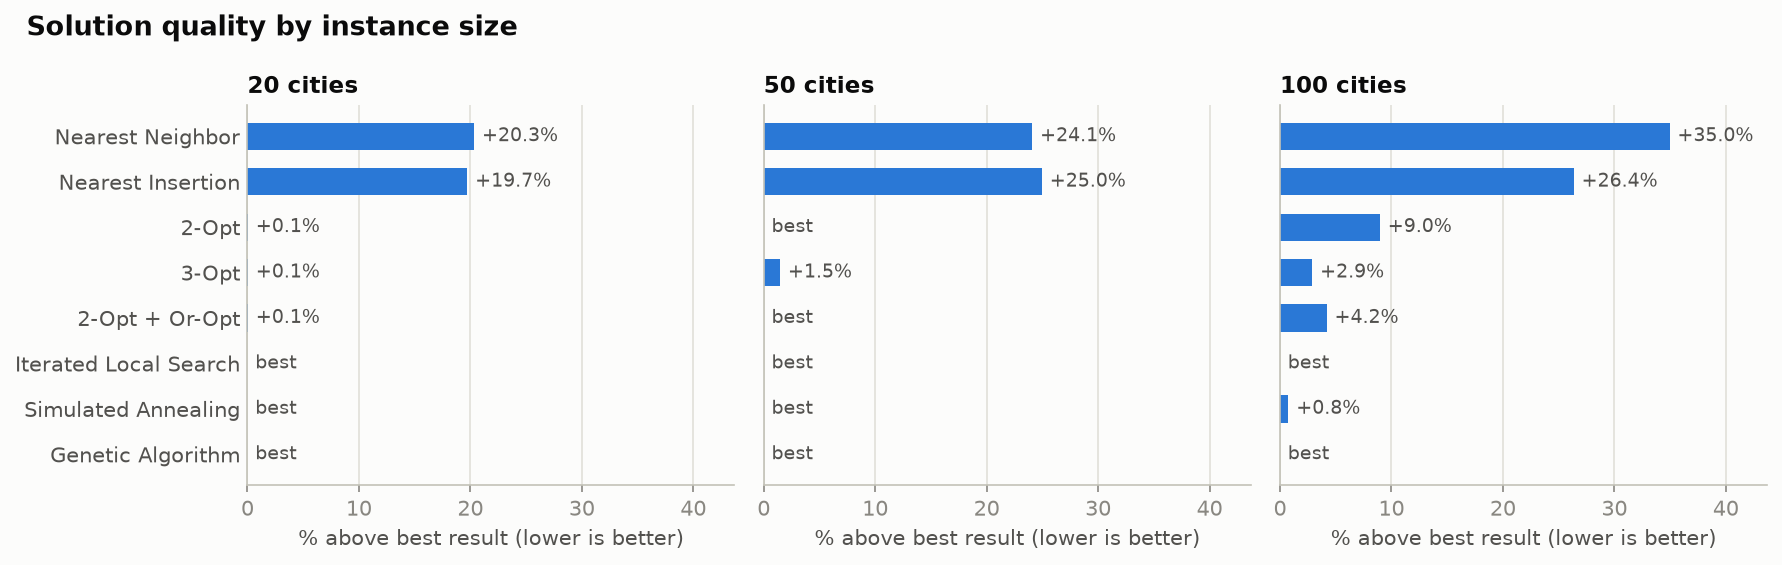
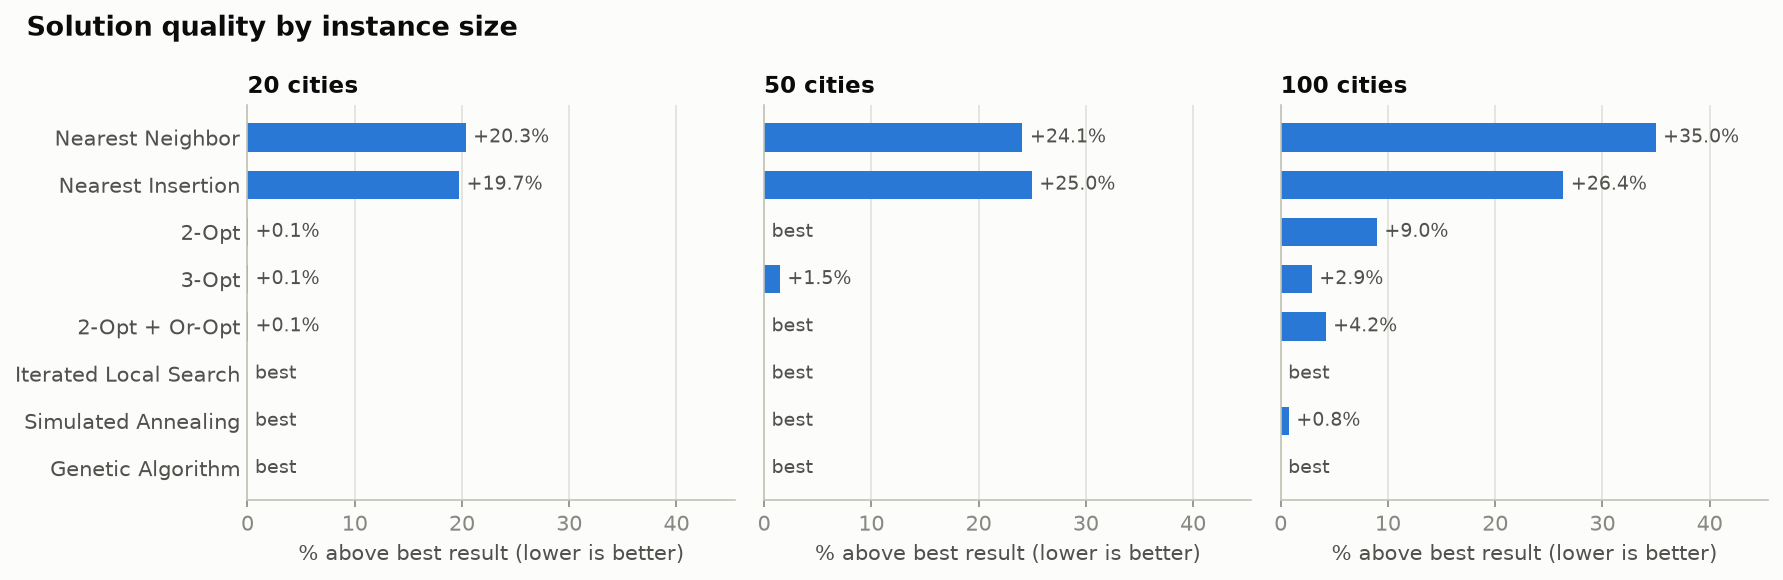
Refresh README and figures; tidy figure script; ignore build dirs
- generate_figures.py: one bar-panel helper for both gap charts; TSPLIB
  paths built from ROOT.
- README tables and outputs regenerated. ILS at 1000 cities 2324.8 (was
  2343.4); ILS on st70 680 (was 675). CLI seeding documented.
- .gitignore: build/ and dist/ (left by pip install).

Claude-Session: https://claude.ai/code/session_018Xnqv3XYegi9WqxB3WF2Wo

diff --git a/scripts/generate_figures.py b/scripts/generate_figures.py
@@ -42,9 +42,7 @@ LABELS = {
     "simulated_annealing": "Simulated Annealing",
     "genetic_algorithm": "Genetic Algorithm",
 }
-TSPLIB_FILES = sorted(glob.glob(os.path.join(
-    os.path.dirname(os.path.dirname(os.path.abspath(__file__))),
-    "data", "tsplib", "*.tsp")))
+TSPLIB_FILES = sorted(glob.glob(os.path.join(ROOT, "data", "tsplib", "*.tsp")))
 SCALING_SIZES = (200, 500, 1000)
 SCALING_ALGORITHMS = ["2-opt", "2-opt+or-opt", "iterated_local_search"]
 
@@ -148,31 +146,43 @@ def plot_tour_comparison(results, n=50):
     save(fig, f"tour_comparison_{n}.png")
 
 
-def plot_gap_by_size(results):
-    """Small multiples: % above the best result, one panel per instance size."""
-    fig, axes = plt.subplots(1, len(SIZES), figsize=(12, 3.8), sharey=True)
+def gap_panels(panels, title, xlabel, zero_label, filename, panel_width):
+    """
+    Small multiples of horizontal bars, one panel per (panel title, gaps)
+    pair; gaps are % values per algorithm in ALGORITHMS order.
+    """
+    fig, axes = plt.subplots(1, len(panels), figsize=(panel_width * len(panels), 3.9),
+                             sharey=True)
     order = list(reversed(ALGORITHMS))
-    max_gap = max(results[n]["algos"][a]["gap"] for n in SIZES for a in ALGORITHMS)
-    for ax, n in zip(axes, SIZES):
-        gaps = [results[n]["algos"][a]["gap"] for a in order]
-        ax.barh(range(len(order)), gaps, height=0.6, color=SERIES)
-        for y, g in enumerate(gaps):
-            text = "best" if g < 0.005 else f"+{g:.1f}%"
+    max_gap = max(max(gaps.values()) for _, gaps in panels)
+    for ax, (panel_title, gaps) in zip(axes, panels):
+        values = [gaps[a] for a in order]
+        ax.barh(range(len(order)), values, height=0.6, color=SERIES)
+        for y, g in enumerate(values):
+            text = zero_label if g < 0.005 else f"+{g:.1f}%"
             ax.text(g + max_gap * 0.02, y, text, va="center",
                     color=INK_SECONDARY, fontsize=9)
         ax.set_yticks(range(len(order)))
         ax.set_yticklabels([LABELS[a] for a in order], color=INK_SECONDARY)
-        ax.set_xlim(0, max_gap * 1.25)
-        ax.set_title(f"{n} cities", loc="left", fontsize=11, fontweight="bold")
+        ax.set_xlim(0, max_gap * 1.3)
+        ax.set_title(panel_title, loc="left", fontsize=11, fontweight="bold")
         ax.xaxis.grid(True, color=GRID, linewidth=0.8)
         ax.set_axisbelow(True)
         ax.tick_params(axis="y", length=0)
         ax.spines["left"].set_color(BASELINE)
-        ax.set_xlabel("% above best result (lower is better)")
-    fig.suptitle("Solution quality by instance size", x=0.02, ha="left",
-                 fontsize=13, fontweight="bold")
+        ax.set_xlabel(xlabel)
+    fig.suptitle(title, x=0.02, ha="left", fontsize=13, fontweight="bold")
     fig.tight_layout()
-    save(fig, "quality_by_size.png")
+    save(fig, filename)
+
+
+def plot_gap_by_size(results):
+    """% above the best result, one panel per instance size."""
+    panels = [(f"{n} cities", {a: results[n]["algos"][a]["gap"] for a in ALGORITHMS})
+              for n in SIZES]
+    gap_panels(panels, "Solution quality by instance size",
+               "% above best result (lower is better)", "best",
+               "quality_by_size.png", panel_width=4)
 
 
 def plot_quality_vs_time(results, n=100):
@@ -277,33 +287,14 @@ def run_tsplib():
 
 
 def plot_tsplib_gap(df):
-    """Small multiples: % above the known optimum, one panel per instance."""
-    instances = list(dict.fromkeys(df["Instance"]))
-    fig, axes = plt.subplots(1, len(instances), figsize=(15, 4), sharey=True)
-    order = list(reversed(ALGORITHMS))
-    max_gap = df["Gap (%)"].max()
-    for ax, name in zip(axes, instances):
+    """% above the known optimum, one panel per TSPLIB instance."""
+    panels = []
+    for name in dict.fromkeys(df["Instance"]):
         sub = df[df["Instance"] == name].set_index("Algorithm")
-        gaps = [sub.loc[a, "Gap (%)"] for a in order]
-        ax.barh(range(len(order)), gaps, height=0.6, color=SERIES)
-        for y, g in enumerate(gaps):
-            text = "optimal" if g < 0.005 else f"+{g:.1f}%"
-            ax.text(g + max_gap * 0.02, y, text, va="center",
-                    color=INK_SECONDARY, fontsize=9)
-        ax.set_yticks(range(len(order)))
-        ax.set_yticklabels([LABELS[a] for a in order], color=INK_SECONDARY)
-        ax.set_xlim(0, max_gap * 1.3)
-        ax.set_title(f"{name} (optimum {int(sub['Optimum'].iloc[0])})",
-                     loc="left", fontsize=11, fontweight="bold")
-        ax.xaxis.grid(True, color=GRID, linewidth=0.8)
-        ax.set_axisbelow(True)
-        ax.tick_params(axis="y", length=0)
-        ax.spines["left"].set_color(BASELINE)
-        ax.set_xlabel("% above optimum")
-    fig.suptitle("TSPLIB instances: gap to the published optimal tour",
-                 x=0.02, ha="left", fontsize=13, fontweight="bold")
-    fig.tight_layout()
-    save(fig, "tsplib_gap.png")
+        panels.append((f"{name} (optimum {int(sub['Optimum'].iloc[0])})",
+                       {a: sub.loc[a, "Gap (%)"] for a in ALGORITHMS}))
+    gap_panels(panels, "TSPLIB instances: gap to the published optimal tour",
+               "% above optimum", "optimal", "tsplib_gap.png", panel_width=3.75)
 
 
 def print_tsplib_table(df):

diff --git a/README.md b/README.md
@@ -25,8 +25,8 @@ A Python implementation of exact, constructive, local-search and metaheuristic a
 
 How the local search stays fast:
 - Every move is evaluated in O(1) from the distance matrix, without recomputing the tour.
-- 2-Opt scans each city's partners in order of distance and stops as soon as no improving move is possible. With the default (all cities as partners) the result is still a true 2-opt local optimum.
-- "Don't-look bits" skip cities whose surroundings have not changed.
+- 2-Opt scans each city's partners in order of distance and stops as soon as no improving move is possible. Only the few nearest partners are sorted up front; the rest of a list is sorted if a scan ever reaches it.
+- "Don't-look bits" skip cities whose surroundings have not changed; a final sweep over all cities confirms that no improving move is left, so the default 2-Opt result is a true 2-opt local optimum.
 
 ## Performance Results
 
@@ -36,14 +36,14 @@ Random uniform instances in a 100×100 square, `generate_random_cities(n)` with 
 
 | Algorithm | 20 cities | 50 cities | 100 cities | Time at 100 cities (s) |
 |-----------|-----------|-----------|------------|------------------------|
-| Nearest Neighbor | 465.04 (+20.3%) | 694.76 (+24.1%) | 1006.40 (+35.0%) | 0.0003 |
+| Nearest Neighbor | 465.04 (+20.3%) | 694.76 (+24.1%) | 1006.40 (+35.0%) | 0.0004 |
 | Nearest Insertion | 462.66 (+19.7%) | 699.63 (+25.0%) | 942.29 (+26.4%) | 0.0012 |
-| 2-Opt | 386.63 (+0.1%) | **559.86** | 812.63 (+9.0%) | 0.0021 |
-| 3-Opt | 386.63 (+0.1%) | 568.11 (+1.5%) | 767.35 (+2.9%) | 0.15 |
-| 2-Opt + Or-Opt | 386.63 (+0.1%) | **559.86** | 777.00 (+4.2%) | 0.013 |
-| Iterated Local Search | **386.43** | **559.86** | **745.73** | 0.11 |
+| 2-Opt | 386.63 (+0.1%) | **559.86** | 812.63 (+9.0%) | 0.0019 |
+| 3-Opt | 386.63 (+0.1%) | 568.11 (+1.5%) | 767.35 (+2.9%) | 0.16 |
+| 2-Opt + Or-Opt | 386.63 (+0.1%) | **559.86** | 777.00 (+4.2%) | 0.012 |
+| Iterated Local Search | **386.43** | **559.86** | **745.73** | 0.14 |
 | Simulated Annealing | **386.43** | **559.86** | 751.40 (+0.8%) | 0.13 |
-| Genetic Algorithm | **386.43** | **559.86** | **745.73** | 0.34 |
+| Genetic Algorithm | **386.43** | **559.86** | **745.73** | 0.35 |
 
 ![Solution quality by instance size](images/quality_by_size.png)
 
@@ -60,7 +60,7 @@ Four classic instances from [TSPLIB](http://comopt.ifi.uni-heidelberg.de/softwar
 | 2-Opt | 446 (+4.7%) | 8108 (+7.5%) | 716 (+6.1%) | 22294 (+4.8%) |
 | 3-Opt | 442 (+3.8%) | 7991 (+6.0%) | 710 (+5.2%) | 21942 (+3.1%) |
 | 2-Opt + Or-Opt | 428 (+0.5%) | 7986 (+5.9%) | 712 (+5.5%) | 22013 (+3.4%) |
-| Iterated Local Search | 427 (+0.2%) | **7542** | **675** | **21282** |
+| Iterated Local Search | 427 (+0.2%) | **7542** | 680 (+0.7%) | **21282** |
 | Simulated Annealing | 427 (+0.2%) | **7542** | 683 (+1.2%) | **21282** |
 | Genetic Algorithm | 427 (+0.2%) | **7542** | 681 (+0.9%) | **21282** |
 
@@ -72,9 +72,9 @@ Tour length and runtime on random instances (same generator):
 
 | Algorithm | 200 cities | 500 cities | 1000 cities |
 |-----------|-----------|-----------|-----------|
-| 2-Opt | 1094.3 (0.01 s) | 1743.3 (0.06 s) | 2434.2 (0.44 s) |
-| 2-Opt + Or-Opt | 1078.2 (0.03 s) | 1709.7 (0.13 s) | 2361.5 (0.35 s) |
-| Iterated Local Search | 1056.8 (0.22 s) | 1655.8 (0.84 s) | 2343.4 (1.83 s) |
+| 2-Opt | 1094.3 (0.01 s) | 1743.3 (0.02 s) | 2433.2 (0.12 s) |
+| 2-Opt + Or-Opt | 1078.2 (0.02 s) | 1709.7 (0.07 s) | 2358.3 (0.23 s) |
+| Iterated Local Search | 1056.8 (0.23 s) | 1655.8 (0.93 s) | 2324.8 (1.84 s) |
 
 ## Installation
 
@@ -118,14 +118,14 @@ tsp-solver solve --random 200 --seed 1 --plot tour.png --tour-out tour.txt
 tsp-solver demo                                            # the 20-city example below
 ```
 
-Repeat `-a` to compare algorithms. The default algorithm is `iterated_local_search`. Choices: `brute_force`, `held_karp`, `nearest_neighbor`, `nearest_insertion`, `2-opt`, `3-opt`, `2-opt+or-opt`, `iterated_local_search`, `simulated_annealing`, `genetic_algorithm`. CSV files may have a header row; the optional third column names the cities.
+Repeat `-a` to compare algorithms. The default algorithm is `iterated_local_search`. Choices: `brute_force`, `held_karp`, `nearest_neighbor`, `nearest_insertion`, `2-opt`, `3-opt`, `2-opt+or-opt`, `iterated_local_search`, `simulated_annealing`, `genetic_algorithm`. CSV files may have a header row; the optional third column names the cities. `--seed` makes the randomized algorithms reproducible; `--random N` without `--seed` uses seed 42 for both the cities and the algorithms.
 
 ```
 $ tsp-solver solve data/tsplib/berlin52.tsp -a 2-opt -a genetic_algorithm --seed 42
 Instance: berlin52 (52 cities, EUC_2D), optimum 7542
 Algorithm                     Distance       Gap    Time (s)
-2-opt                          8108.00     7.50%      0.0013
-genetic_algorithm              7542.00     0.00%      0.2070
+2-opt                          8108.00     7.50%      0.0014
+genetic_algorithm              7542.00     0.00%      0.2305
 
 Best: genetic_algorithm, distance 7542.00
 Tour: 6 -> 4 -> 25 -> 12 -> 28 -> 27 -> 26 -> 47 -> ... -> 6
@@ -144,15 +144,15 @@ Algorithm Comparison:
 ------------------------------------------------------------
 Algorithm              Distance        Time (s)
 ------------------------------------------------------------
-nearest_neighbor       465.04          0.0001
+nearest_neighbor       465.04          0.0000
 nearest_insertion      462.66          0.0001
-2-opt                  386.63          0.0003
-3-opt                  386.63          0.0016
-2-opt+or-opt           386.63          0.0013
-iterated_local_search  386.43          0.0429
-simulated_annealing    386.43          0.1289
-genetic_algorithm      386.43          0.1057
-held_karp              386.43          1.8919
+2-opt                  386.63          0.0005
+3-opt                  386.63          0.0011
+2-opt+or-opt           386.63          0.0008
+iterated_local_search  386.43          0.0375
+simulated_annealing    386.43          0.1160
+genetic_algorithm      386.43          0.0832
+held_karp              386.43          1.6711
 ------------------------------------------------------------
 
 Best Solution: genetic_algorithm
@@ -311,7 +311,7 @@ pytest
 
 **Iterated Local Search**
 - Default choice when a fraction of a second is acceptable
-- Optimal on 3 of the 4 TSPLIB instances above, +0.2% on the fourth
+- Optimal on 2 of the 4 TSPLIB instances above, within 0.7% on the other two
 
 **Genetic Algorithm**
 - Best result, or within 1% of it, on every benchmark above, at about 3× the time of ILS
